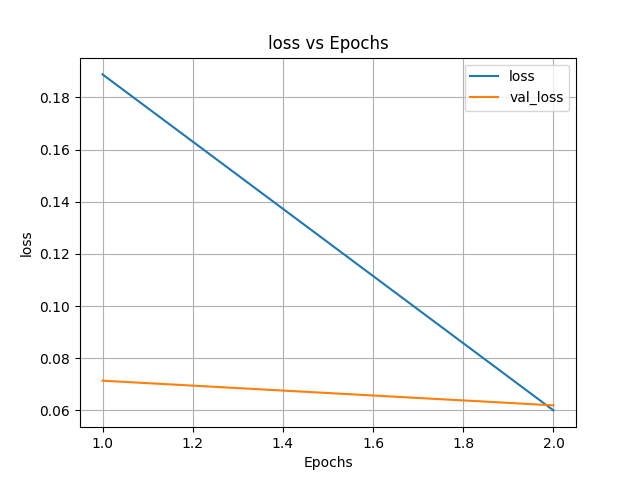
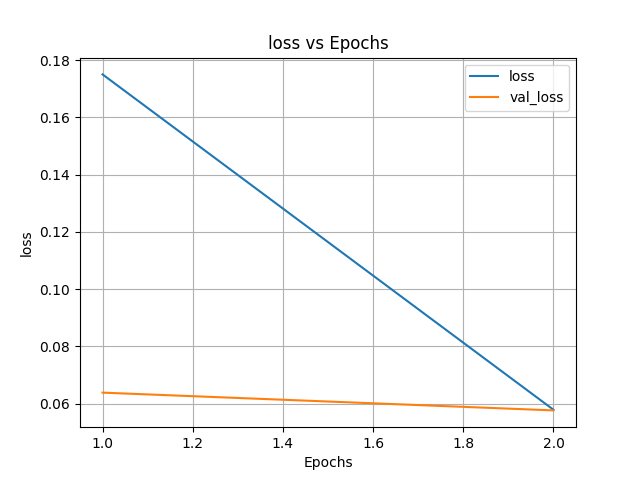
preview

diff --git a/README.md b/README.md
@@ -59,6 +59,10 @@ Once the virtual environment is activated, install the package using pip:
 pip install blackboxml
 ```
 
+### Preview
+
+![Installation Preview](./data/blackboxml_installation.png)
+
 And now you are all set! 
 
 ## How It Works